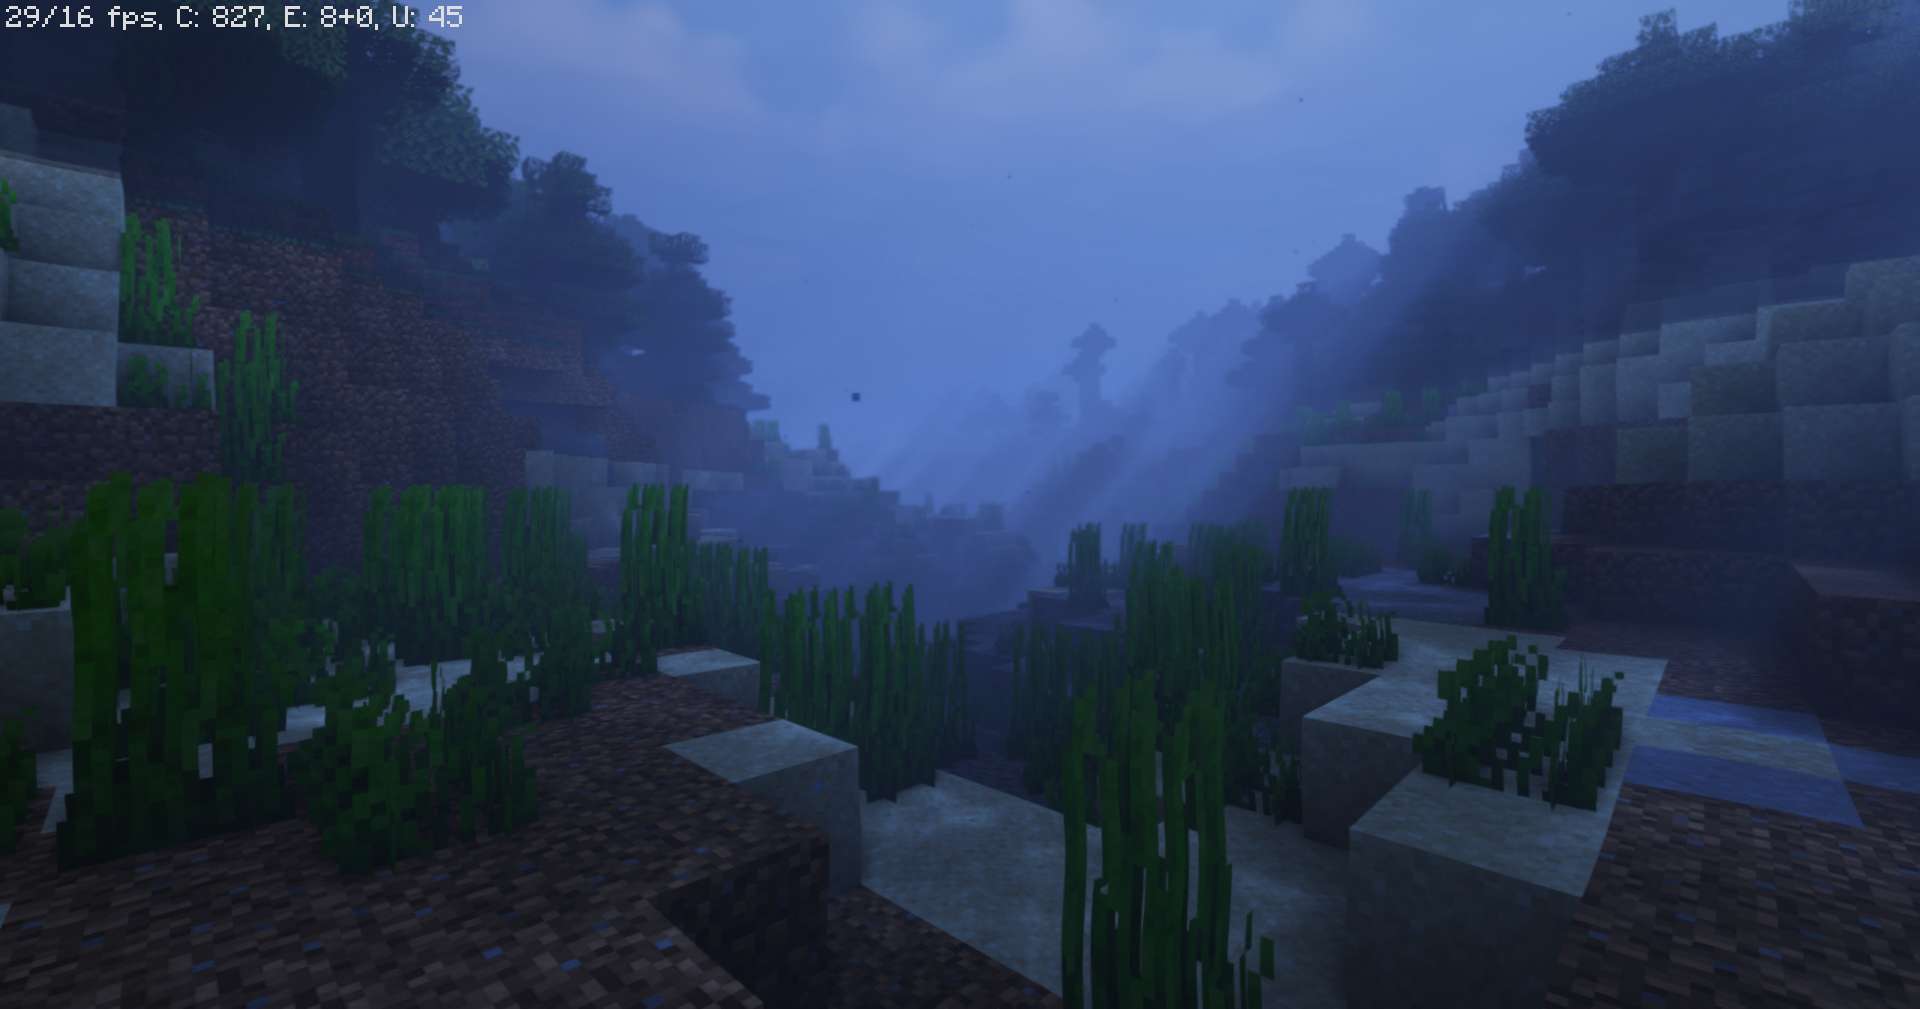
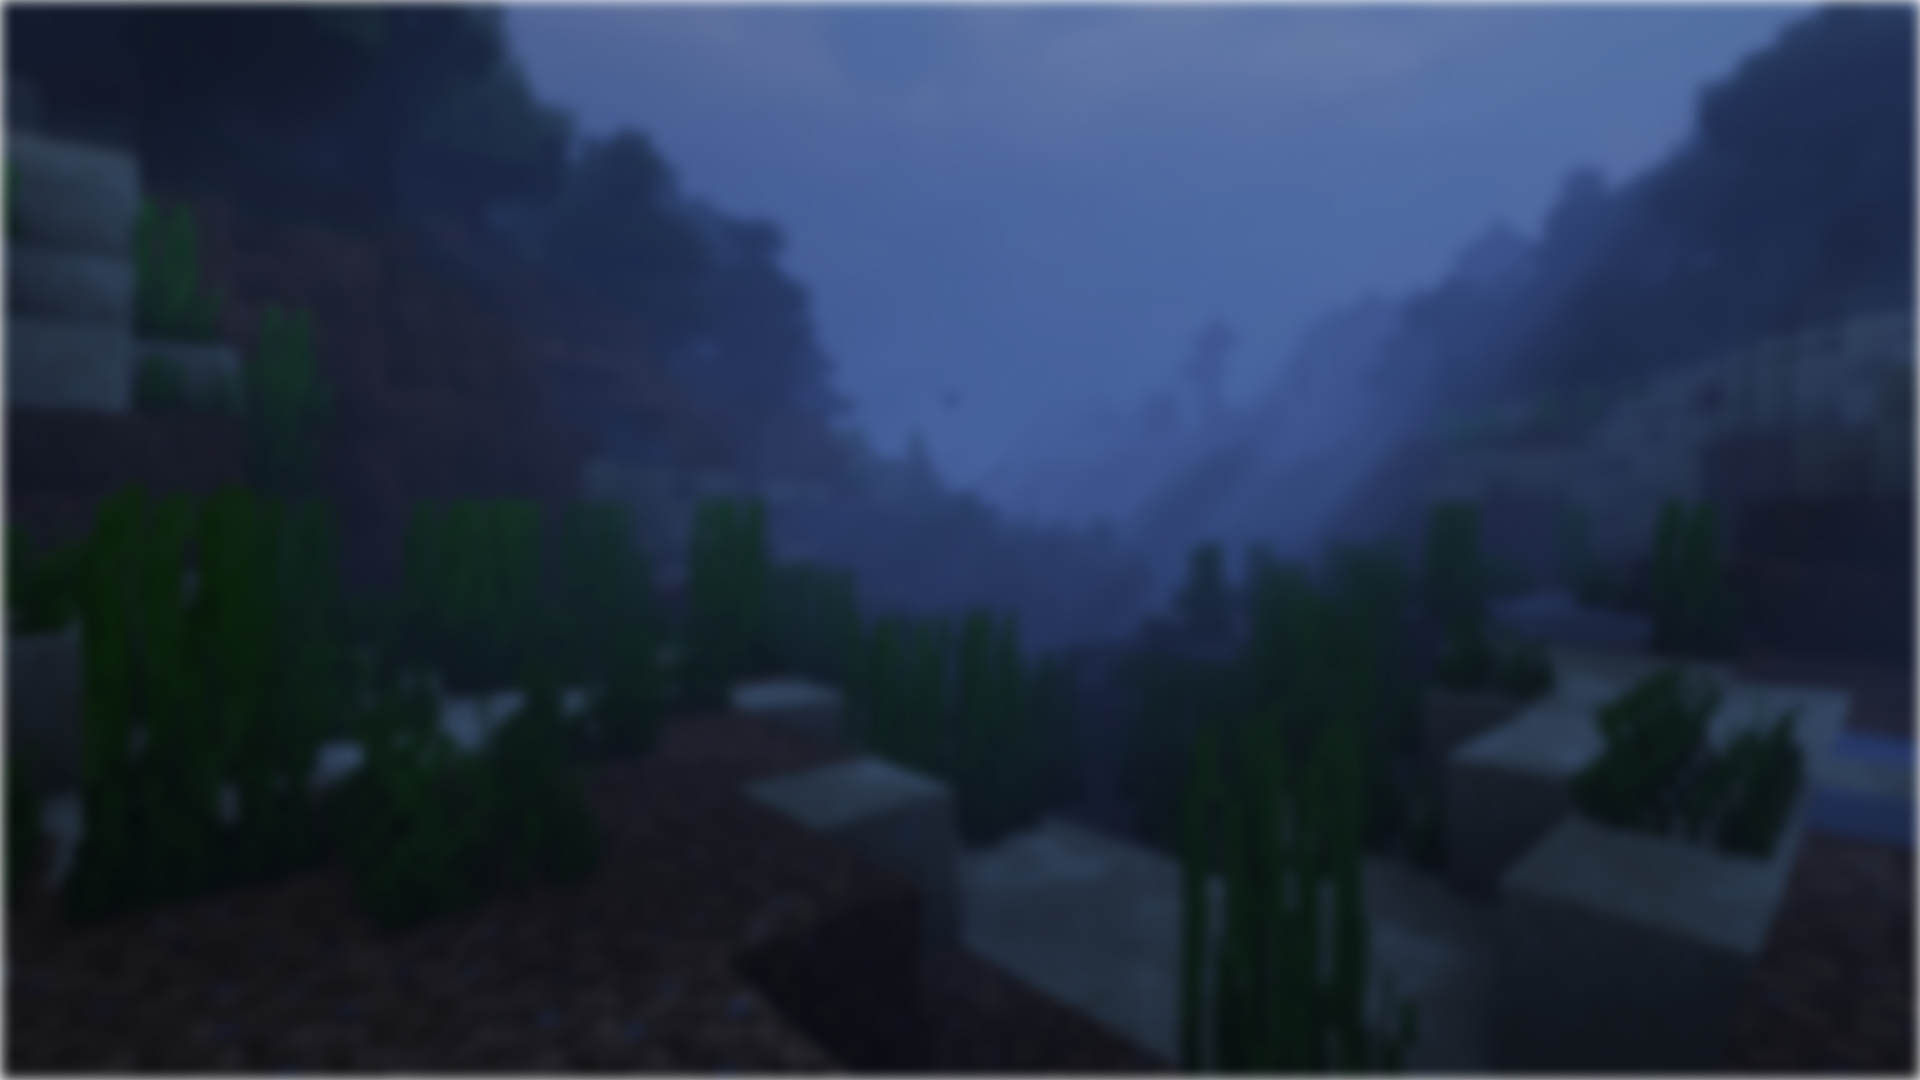
Fixed background
- Scale now 1920x1080 16:9
- Blur corrected
- Hides minecraft sceen coo

diff --git a/CHANGELOG.md b/CHANGELOG.md
@@ -1,4 +1,7 @@
 # 0.4.7
-- Fixing auto-update child process closing problem
-- Fixing AuthModule render issue with too large pseudos
+- Fixed auto-update child process closing problem
+- Fixed AuthModule render issue with too large pseudos
 - Changed starting window size
+- Fixed Background size et scale bug
+- Replaced main view switcher system by AntDesign `Tabs`
+- Changed main color theme
